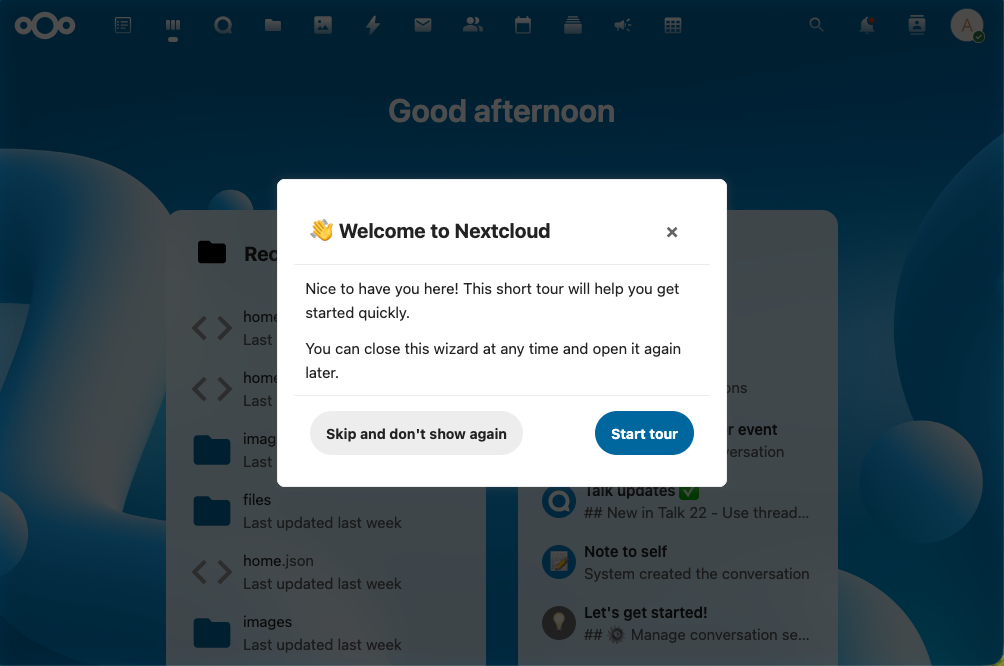
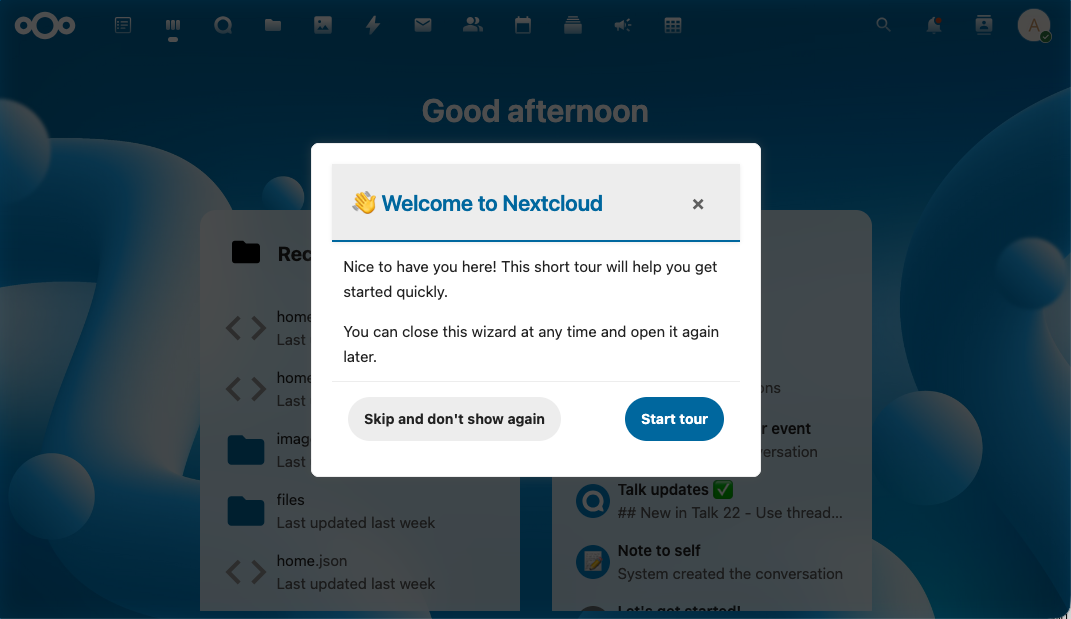
Release v1.1.1 - Enhanced wizard visual design
- Improved header prominence with better padding and visual accents
- Enhanced title styling for better readability
- Simplified body text for consistency and admin flexibility
- All improvements work across light, dark, and high contrast themes

diff --git a/CHANGELOG.md b/CHANGELOG.md
@@ -5,6 +5,20 @@ All notable changes to this project will be documented in this file.
 The format is based on [Keep a Changelog](https://keepachangelog.com/en/1.0.0/),
 and this project adheres to [Semantic Versioning](https://semver.org/spec/v2.0.0.html).
 
+## [1.1.1] - 2025-11-15
+
+### Improved
+- **Enhanced wizard visual design** - Improved readability and visual hierarchy
+  - Header now more prominent with increased padding (16px 20px) and min-height (56px)
+  - Added 2px border-bottom in primary-element color for visual accent
+  - Enhanced box-shadow for better depth (stronger in dark mode)
+  - Title styling improved: 22px font-size, primary-element color, font-weight 600, letter-spacing -0.01em
+  - Increased content padding (20px) for better breathing room
+  - Simplified body text styling - uniform 15px font-size and 1.7 line-height
+  - Removed special first-paragraph styling for consistency
+  - Allows admins to use inline HTML/CSS for custom formatting per step
+  - All improvements work seamlessly across light, dark, and high contrast themes
+
 ## [1.1.0] - 2025-11-15
 
 ### Major Features
